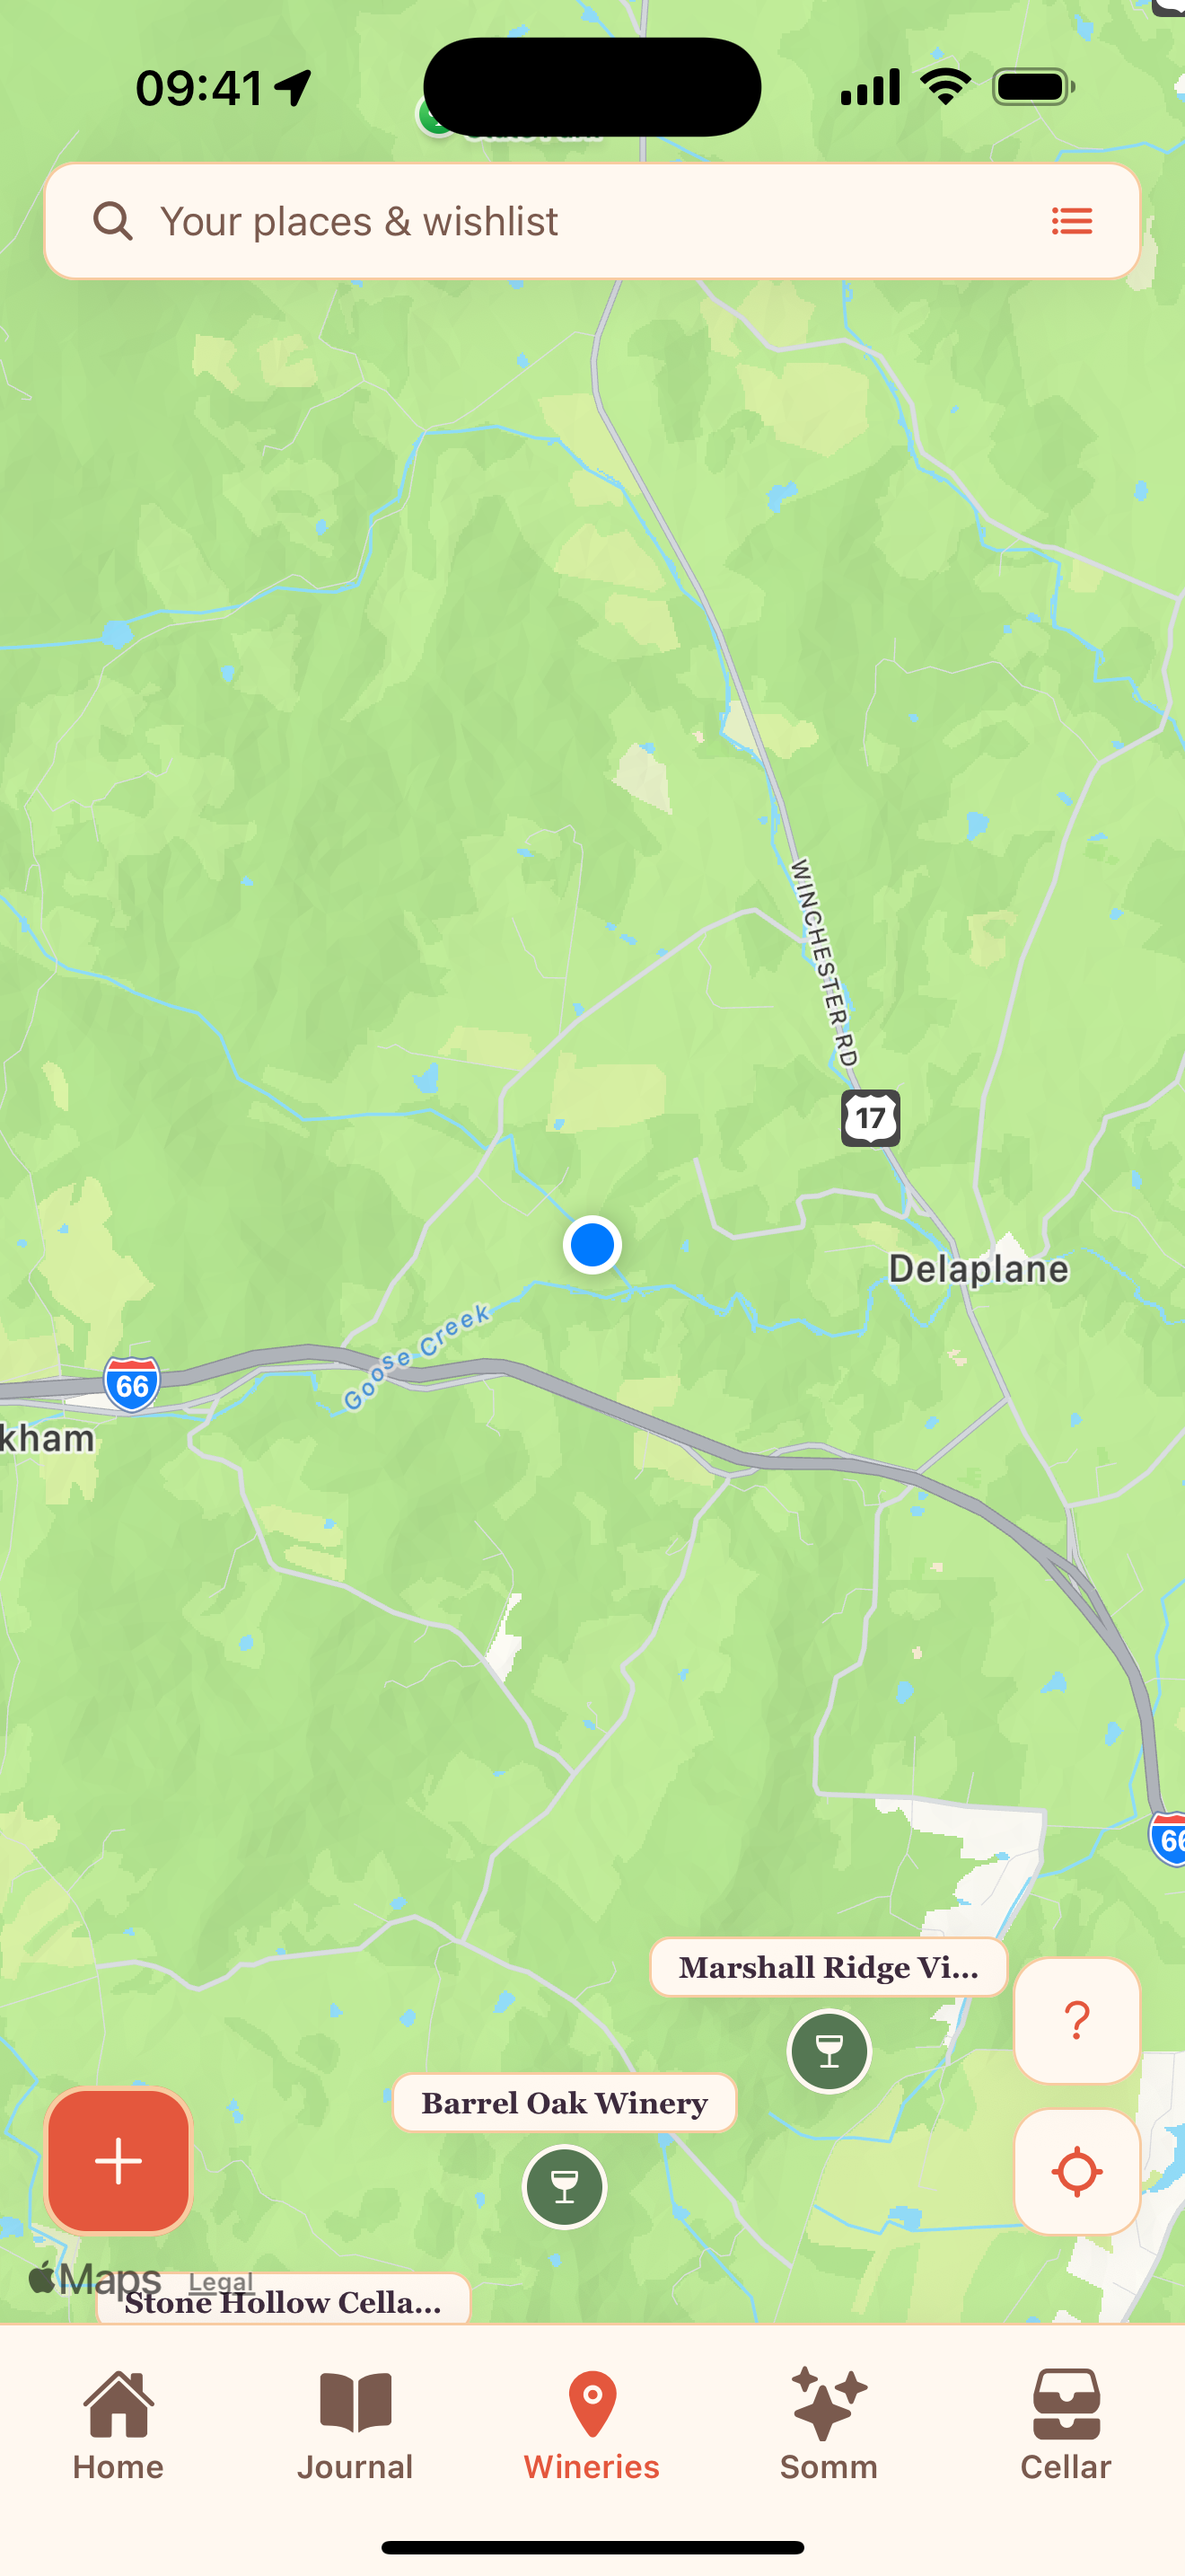
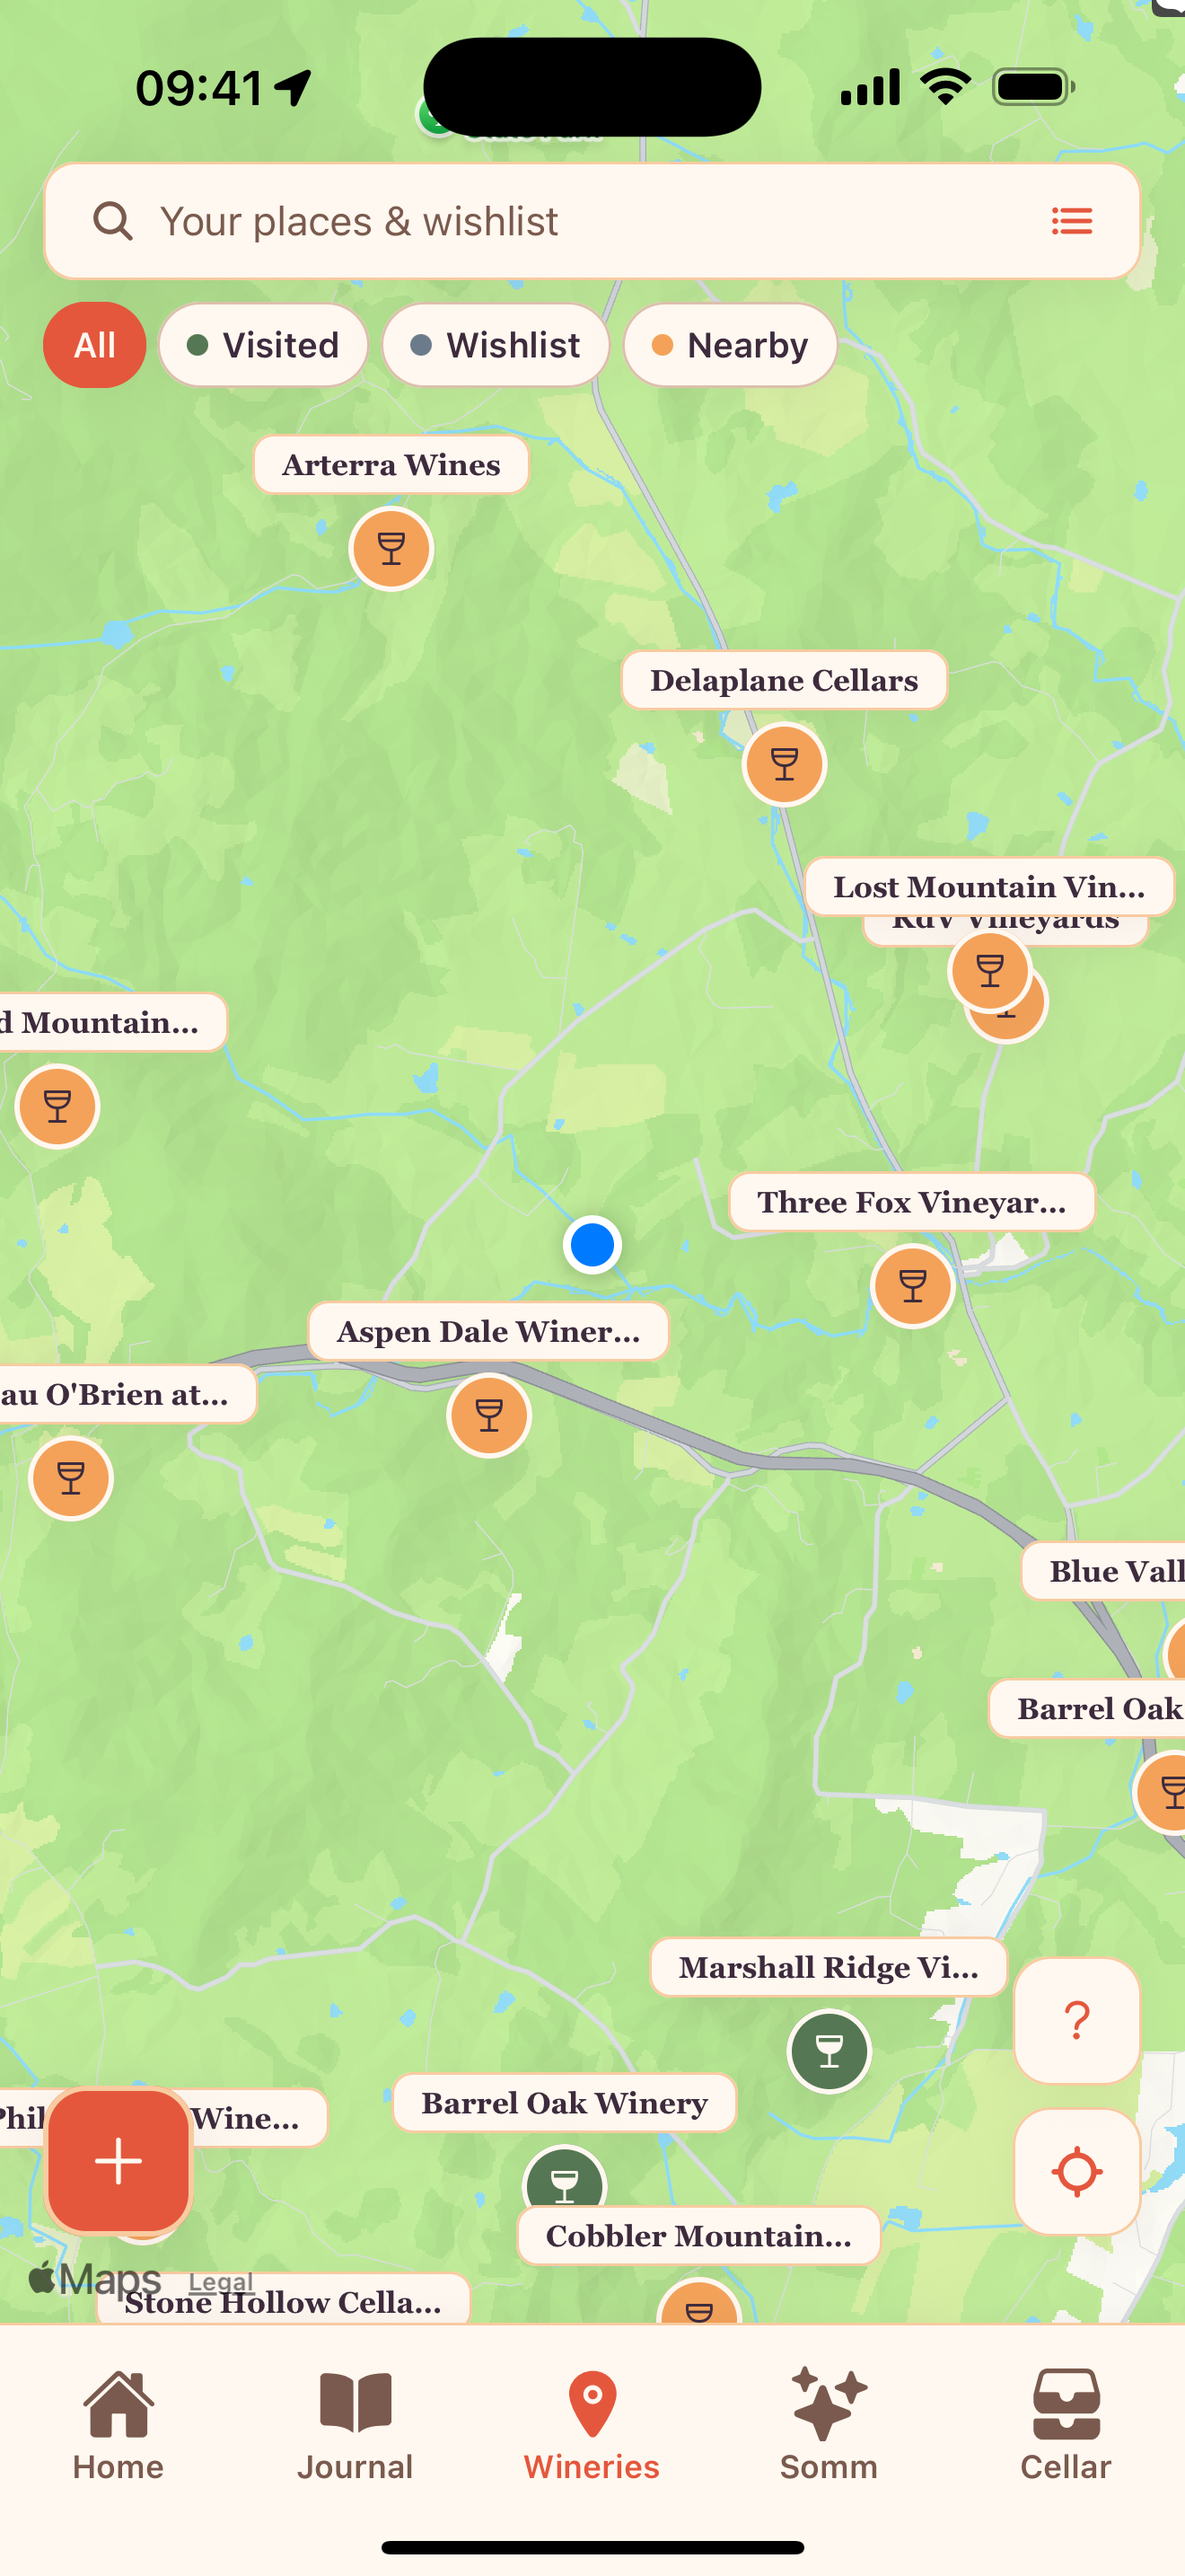
fix(chat): dead pre-rename theme tokens crashed the Somm tab and log form
ChatBubble's web-search sources UI (PR #208) was written against the old
token names; colors.gold and neutral.stone/pewter/cream no longer exist
after the role-based rename (#207), so StyleSheet.create threw at module
load — a fatal JS error that aborted the app (expo-updates ErrorRecovery)
on every screen importing ChatBubble: the Sommelier tab directly, and the
log form via WineEntryForm → WineChatModal. Affects production builds 15/16.

Adds a static guard test: every file importing styles/theme may only
reference tokens that actually exist, so the next stale token fails CI
instead of crashing the app.

Also refreshes the marketing screenshots from the final simulator build
(main@#220, Delaplane VA): home now shows the Ask-Sommelier box and Near
You; map shows discovery pins + filter chips. Shots 2/5 pending a fixed
build (they crashed).

diff --git a/__tests__/theme-tokens.test.js b/__tests__/theme-tokens.test.js
@@ -1,0 +1,52 @@
+// Guards against references to theme tokens that no longer exist. A stale
+// token (e.g. `colors.gold.muted` after the role-based rename) evaluates to
+// `undefined.muted` inside StyleSheet.create, which throws at module load and
+// takes down every screen that imports the component — this has caused real
+// production-build crashes. Scans every source file that imports the theme.
+const fs = require('fs');
+const path = require('path');
+const { colors, typography, spacing } = require('../styles/theme');
+
+const ROOT = path.join(__dirname, '..');
+const SCAN_DIRS = ['app', 'components', 'lib', 'contexts', 'hooks'];
+
+function walk(dir, files = []) {
+  if (!fs.existsSync(dir)) return files;
+  for (const entry of fs.readdirSync(dir, { withFileTypes: true })) {
+    const full = path.join(dir, entry.name);
+    if (entry.isDirectory()) walk(full, files);
+    else if (/\.jsx?$/.test(entry.name)) files.push(full);
+  }
+  return files;
+}
+
+const themeFiles = SCAN_DIRS.flatMap((d) => walk(path.join(ROOT, d))).filter((f) =>
+  /from\s+['"][^'"]*styles\/theme['"]/.test(fs.readFileSync(f, 'utf8'))
+);
+
+test('theme is imported somewhere (scan is not vacuous)', () => {
+  expect(themeFiles.length).toBeGreaterThan(0);
+});
+
+test.each(themeFiles.map((f) => [path.relative(ROOT, f)]))(
+  '%s only references theme tokens that exist',
+  (rel) => {
+    const src = fs.readFileSync(path.join(ROOT, rel), 'utf8');
+    const bad = [];
+    for (const [name, obj] of [
+      ['colors', colors],
+      ['typography', typography],
+      ['spacing', spacing],
+    ]) {
+      const re = new RegExp(`\\b${name}\\.([A-Za-z_$][\\w$]*)(?:\\.([A-Za-z_$][\\w$]*))?`, 'g');
+      let m;
+      while ((m = re.exec(src)) !== null) {
+        const [, first, second] = m;
+        if (!(first in obj)) bad.push(`${name}.${first}`);
+        else if (second && obj[first] != null && typeof obj[first] === 'object' && !(second in obj[first]))
+          bad.push(`${name}.${first}.${second}`);
+      }
+    }
+    expect(bad).toEqual([]);
+  }
+);

diff --git a/components/ChatBubble.js b/components/ChatBubble.js
@@ -187,7 +187,7 @@ export default function ChatBubble({ message, onUseSuggestions }) {
                   accessibilityRole="link"
                   accessibilityLabel={source.title || sourceLabel(source.url)}
                 >
-                  <Ionicons name="globe-outline" size={11} color={colors.gold.text} />
+                  <Ionicons name="globe-outline" size={11} color={colors.accent.ink} />
                   <Text style={styles.sourceChipText} numberOfLines={1}>
                     {sourceLabel(source.url)}
                   </Text>
@@ -281,11 +281,11 @@ const styles = StyleSheet.create({
     marginTop: spacing.sm,
     paddingTop: spacing.sm,
     borderTopWidth: 1,
-    borderTopColor: colors.neutral.stone,
+    borderTopColor: colors.neutral.divider,
   },
   sourcesLabel: {
     ...typography.body.caption,
-    color: colors.neutral.pewter,
+    color: colors.neutral.inkTertiary,
     marginBottom: spacing.xs,
   },
   sourceChips: {
@@ -300,14 +300,14 @@ const styles = StyleSheet.create({
     maxWidth: '100%',
     paddingVertical: 3,
     paddingHorizontal: spacing.xs,
-    backgroundColor: colors.neutral.cream,
+    backgroundColor: colors.accent.surface,
     borderRadius: borderRadius.sm,
     borderWidth: 1,
-    borderColor: colors.gold.muted,
+    borderColor: colors.accent.border,
   },
   sourceChipText: {
     ...typography.body.small,
-    color: colors.gold.text,
+    color: colors.accent.ink,
     flexShrink: 1,
   },
   suggestionsButton: {
